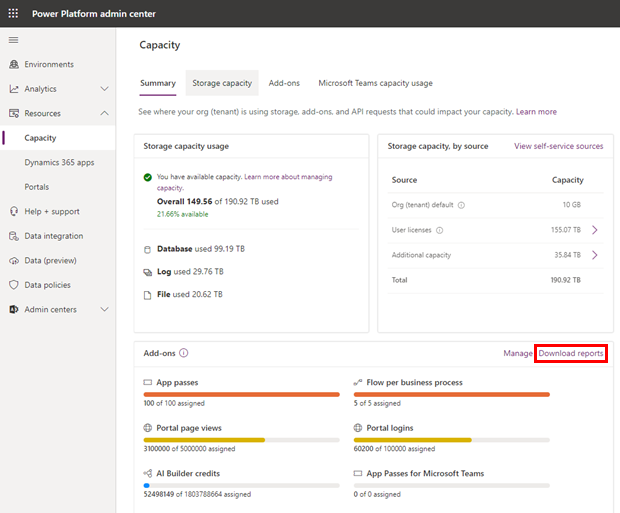
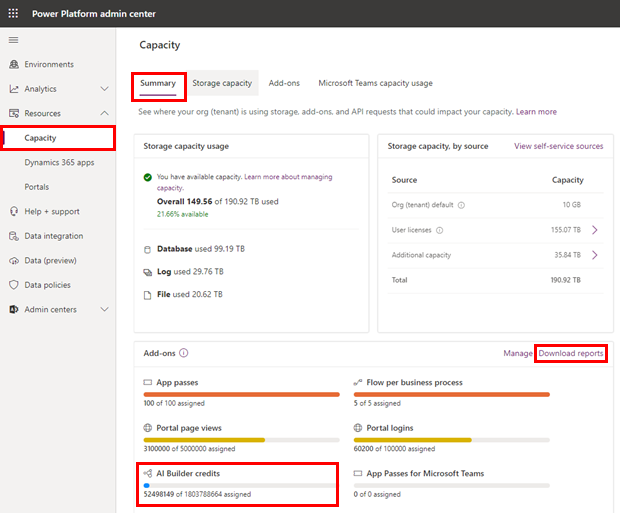
update report

diff --git a/ai-builder-docs/administer-consumption-report.md b/ai-builder-docs/administer-consumption-report.md
@@ -1,10 +1,10 @@
 ---
 title: AI Builder consumption report - AI Builder | Microsoft Docs
-description: Describes the consumption report that shows how your AI credits are being used in the Microsoft Power Platform admin center.
+description: This topi describes the consumption report, which shows how your AI credits are being used in the Microsoft Power Platform admin center.
 author: CedrickBellarosa
 ms.topic: conceptual
 ms.custom: 
-ms.date: 04/09/2021
+ms.date: 06/02/2022
 ms.author: cdbellar
 ms.reviewer: angieandrews
 ---
@@ -18,7 +18,7 @@ AI Builder is licensed as a capacity add-on that must be allocated to a Microsof
 
 In addition, administrators can download an Excel report that shows the actual capacity consumption in your tenant. The consumption report shows the capacity used in the 30 days preceding the selected target date for each environment. This makes it easier to compare your allocated capacity with the actual capacity consumption of your organization so you can fine tune your capacity allocation.
 
-Consumption reports are not available in Government Community Cloud (GCC and GCC High).
+Consumption reports aren't available in Government Community Cloud (GCC and GCC High).
 
 ## View the consumption report
 
@@ -26,45 +26,48 @@ To download and view an Excel file showing your AI credit consumption report:
 
 1. Sign in to the [Power Platform admin center](https://admin.powerplatform.microsoft.com/).
 
-1. Select **Capacity** in the left-side navigation pane.
+1. On the left panel, select **Resources** > **Capacity**.
 
 1. On the **Summary** tab, select **Download reports** in the **Add-ons** section.
 
     > [!div class="mx-imgBorder"]
-    > ![Power Platform admin center capacity screen.](media/ppac-capacity-screen.png "AI Builder credits is located in the 'Add-ons' section")
+    > ![Screenshot of the Power Platform admin center capacity screen.](media/ppac-capacity-screen.png "AI Builder credits is located in the 'Add-ons' section")
 
-1. Select **AI Builder** in the **Choose a report** box.
+1. On the menu at the top, select **+New**.
 
-1. Select the target date that you want to get the data for the preceding 30 days, and then select **Submit**.
+1. In the **Choose a report** dropdown list, select **AI Builder**.
 
-    > [!div class="mx-imgBorder"]
-    > ![Power Platform admin center 'request report' screen.](media/ppac-request-report-screen.png "Choose your settings in the 'Request a report' section")
-
-1. Read the notification message at the top of the screen when the report is ready.
-
-1. Select **download** to download the report as an Excel file.
+1. Select **Submit**.
 
     > [!div class="mx-imgBorder"]
-    > ![Power Platform admin center 'download report' message.](media/ppac-download-message.png "Select 'download' in the message")
+    > ![Screenshot of Request a report.](media/administer-consumption-report/download-consumption.png "Request a report")
+
+    The **Downloadable Reports** list shows that a new report is being generated.
+
+    > [!div class="mx-imgBorder"]
+    > ![Screenshot of a report being generated.](media/administer-consumption-report/in-progress.png "A report being generated")
+
+1. After the new report is generated, select the report in the list.
+
+1. At the top of the screen, select **Download** to download the report as an Excel file.
 
 ## Understanding the consumption report
 
 The report shows AI credits consumed by date for each environment.
 
  > [!div class="mx-imgBorder"]
- > ![Consumption report.](media/consumption-report.png "Excel file showing your consumption")
+ > ![Screenshot of an Excel file showing your consumption.](media/administer-consumption-report/consumption-excel.png "Excel file showing your consumption")
 
-
-- **EnvironmentId** is the identifier visible in your Power Apps or Power Automate URL (for example, https://make.powerapps.com/environments/%GUID%).
 - **UserId** is the identifier visible in the Dataverse "User" table.
+- **EnvironmentId** is the identifier visible in your Power Apps or Power Automate URL (for example, https://make.powerapps.com/environments/%GUID%).
+
 - **<1K** in the **AIConsumption** column means that you have consumed fewer than 1,000 credits on that day and that environment.
 
 You can compare the aggregated consumption for the current calendar month on each environment with what has been allocated. Using this information, you can take action to allocate more credits to environments that are in overage. Remember, the number of allocated credits by environment is visible and can be changed in the Power Platform admin center [Add-ons](https://admin.powerplatform.microsoft.com/resources/capacity#add-ons) page.
 
-## See also
+### See also
 
 - [Microsoft Power Apps and Power Automate Licensing Guide](https://go.microsoft.com/fwlink/?LinkId=2085130)<br/>
 - [AI Builder licensing FAQ](/power-platform/admin/powerapps-flow-licensing-faq#ai-builder)
-
 
 [!INCLUDE[footer-include](includes/footer-banner.md)]
